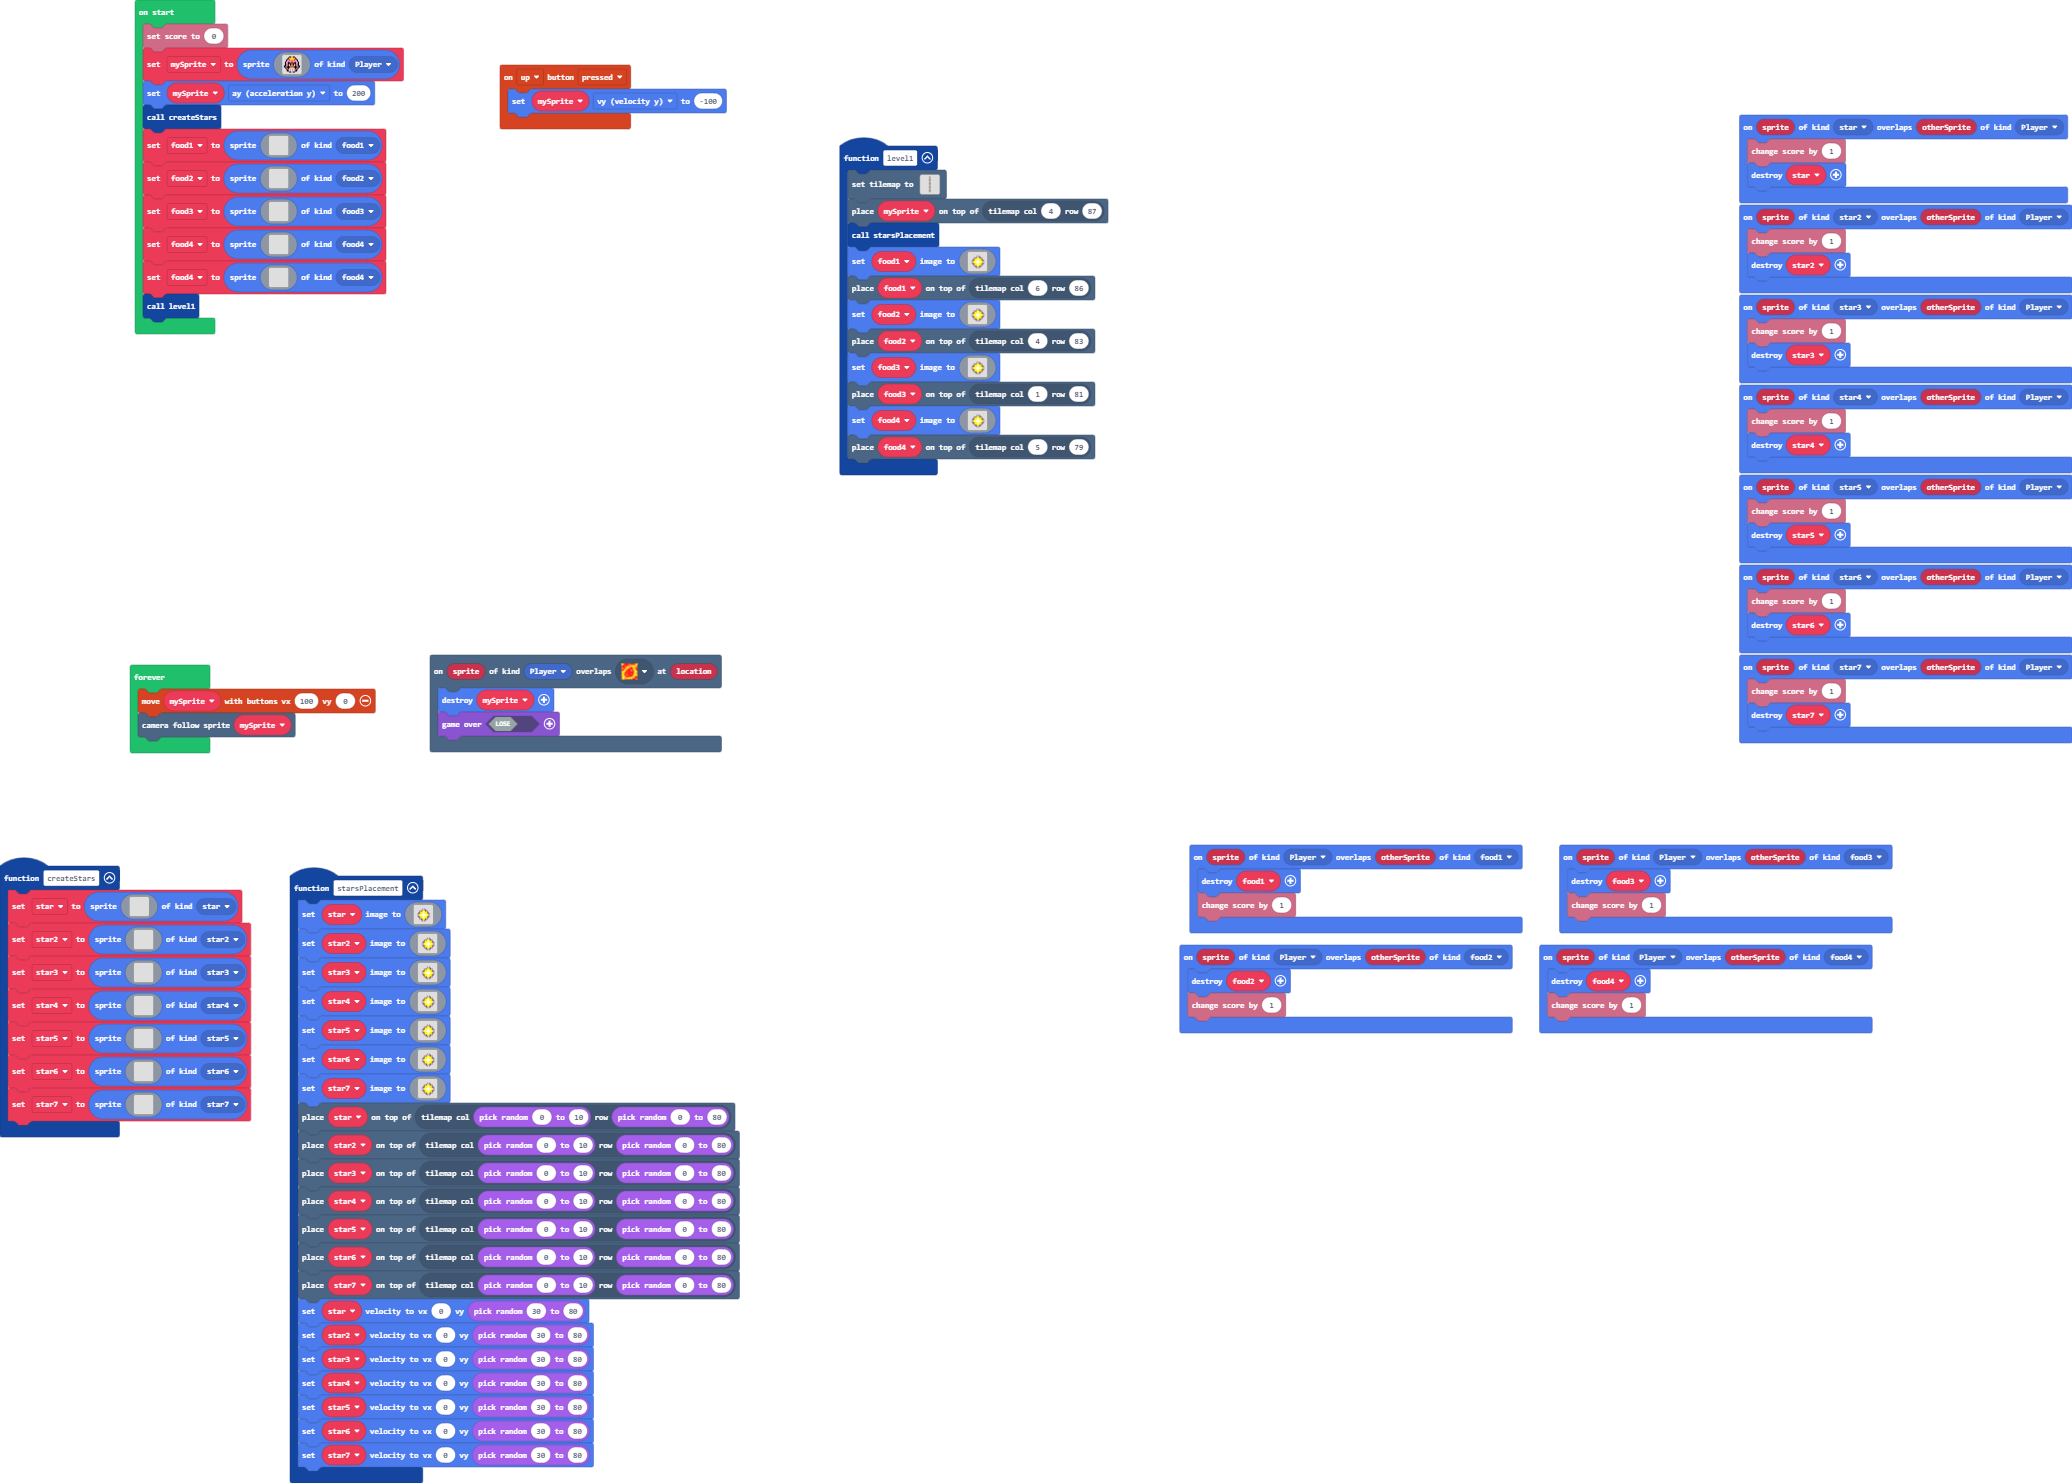
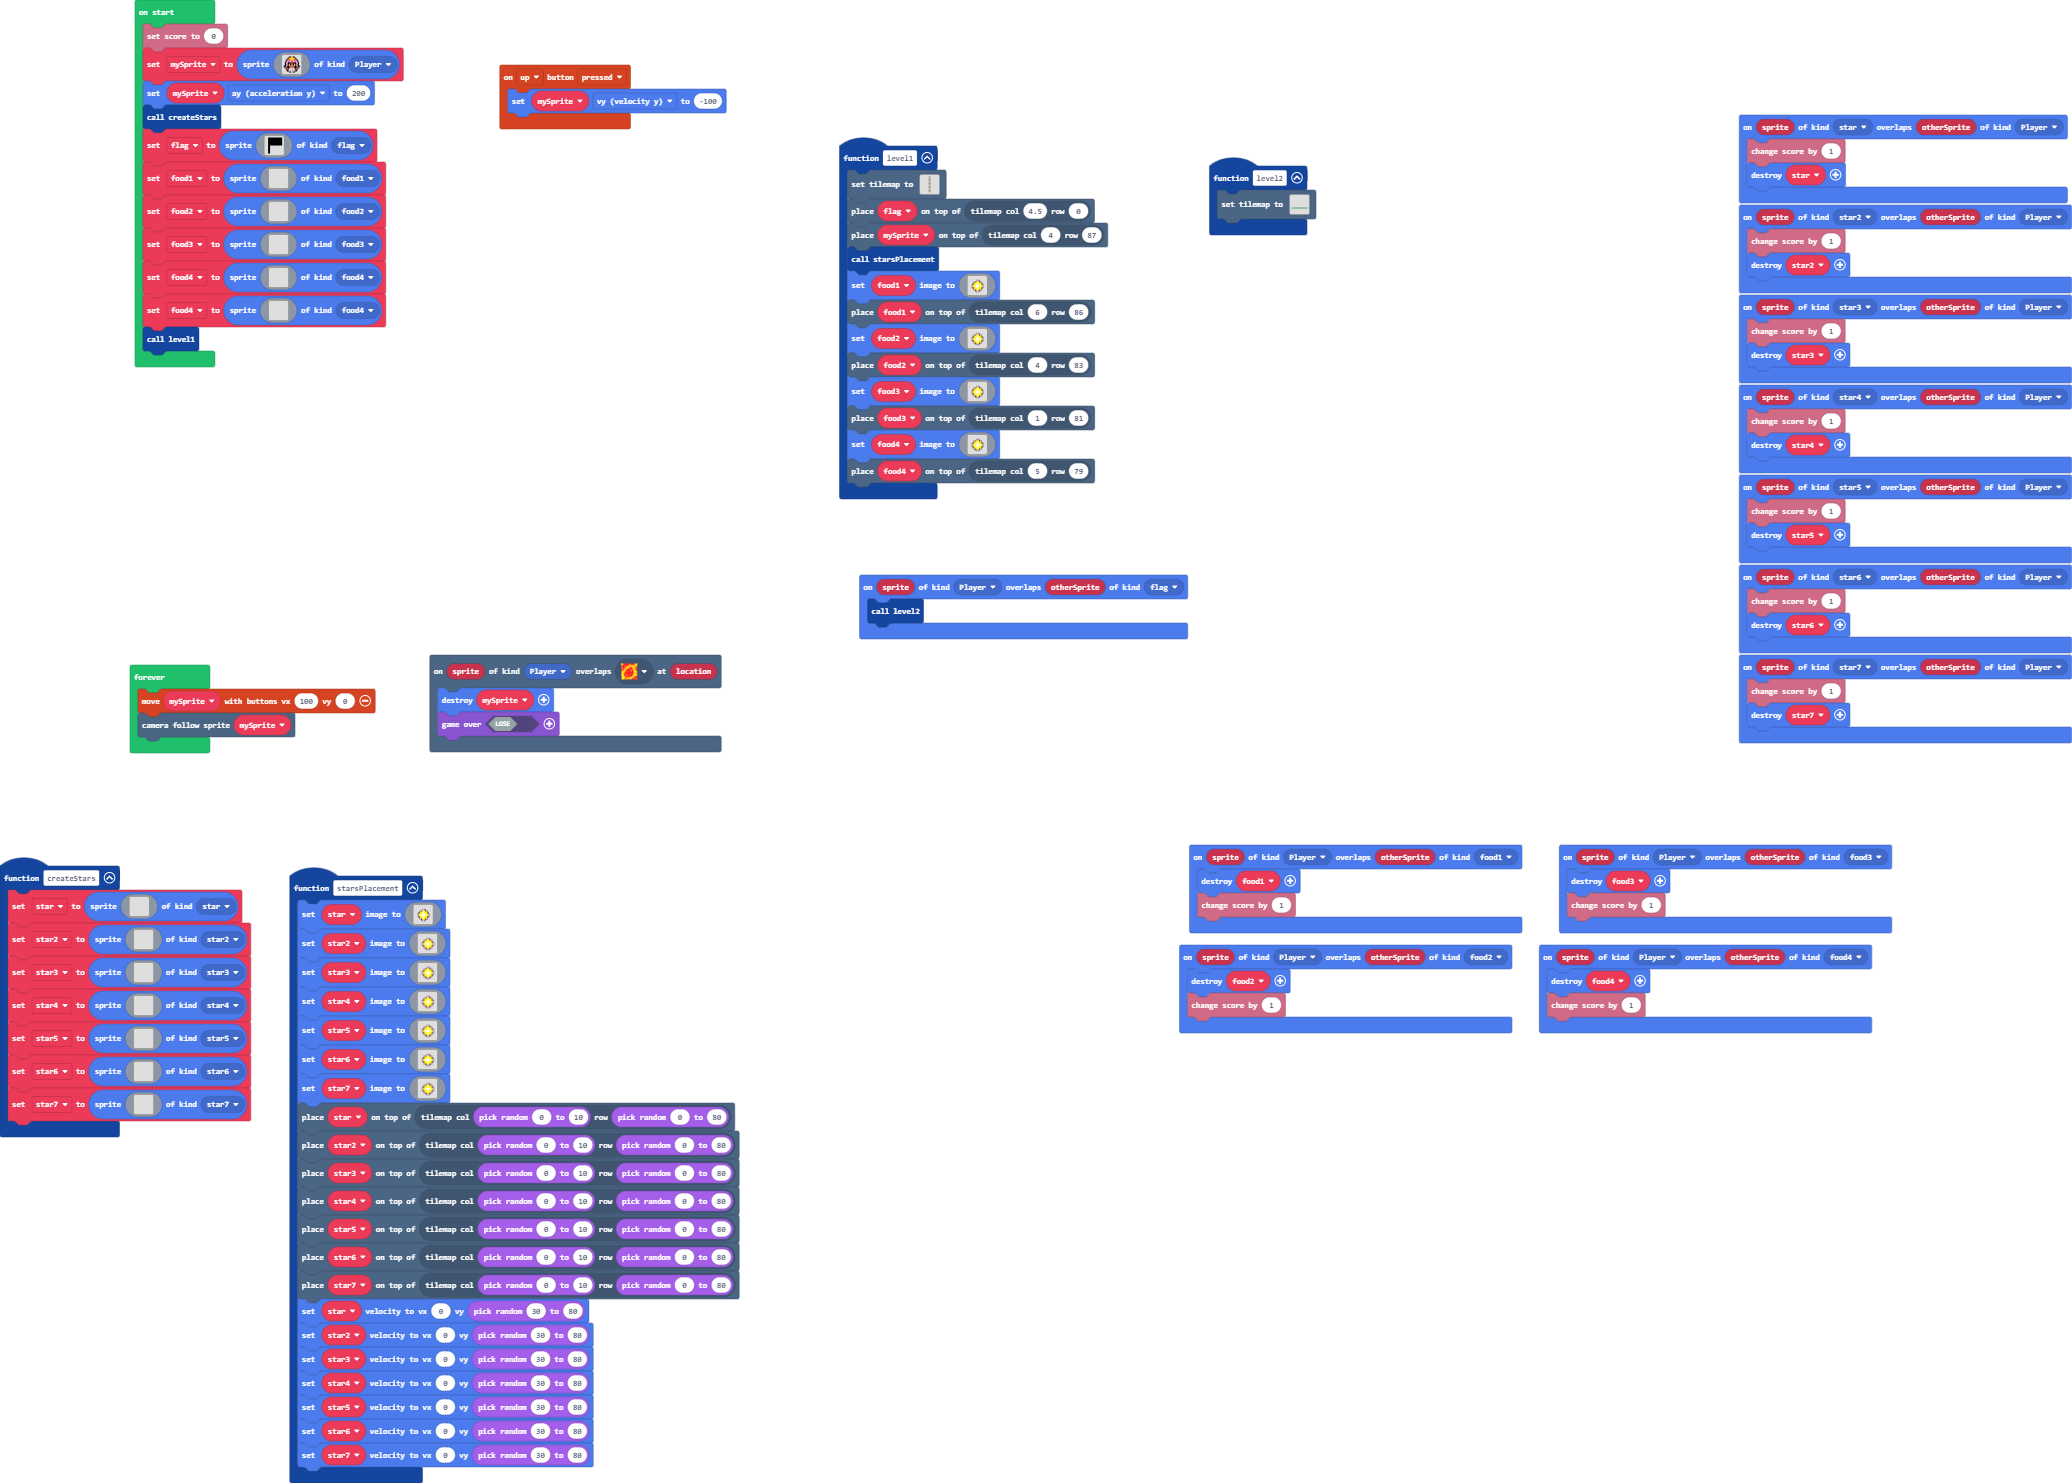
Update main.blocks, main.ts, tilemap.g.jres, tilemap.g.ts

diff --git a/tilemap.g.ts b/tilemap.g.ts
@@ -33,10 +33,29 @@ namespace myTiles {
 
     helpers._registerFactory("tilemap", function(name: string) {
         switch(helpers.stringTrim(name)) {
+            case "level2":
+            case "level2":return tiles.createTilemap(hex`1000100000000000000000000000000000000000000000000000000000000000000000000000000000000000000000000000000000000000000000000000000000000000000000000000000000000000000000000000000000000000000000000000000000000000000000000000000000000000000000000000000000000000000000000000000000000000000000000000000000000000000000000000000000000000000000000000000000000000000000000000000000000000000000000000000000000000000000000000000000000000000000000000000000000000000000000000000000000000000000000000000000000000000000000000000000000000`, img`
+. . . . . . . . . . . . . . . . 
+. . . . . . . . . . . . . . . . 
+. . . . . . . . . . . . . . . . 
+. . . . . . . . . . . . . . . . 
+. . . . . . . . . . . . . . . . 
+. . . . . . . . . . . . . . . . 
+. . . . . . . . . . . . . . . . 
+. . . . . . . . . . . . . . . . 
+. . . . . . . . . . . . . . . . 
+. . . . . . . . . . . . . . . . 
+. . . . . . . . . . . . . . . . 
+. . . . . . . . . . . . . . . . 
+. . . . . . . . . . . . . . . . 
+. . . . . . . . . . . . . . . . 
+. . . . . . . . . . . . . . . . 
+. . . . . . . . . . . . . . . . 
+`, [myTiles.transparency16], TileScale.Sixteen);
             case "level1":
[2 lines of base64/hex data omitted]
 ..........
-..........
+...2222...
 ..........
 ..........
 ..........
@@ -125,7 +144,26 @@ namespace myTiles {
 ..........
 ....22....
 ..........
-`, [myTiles.transparency16,myTiles.tile1,myTiles.tile4,myTiles.tile5,myTiles.tile6,myTiles.tile8,myTiles.tile9,myTiles.tile10,myTiles.tile11,myTiles.tile12,myTiles.tile13,myTiles.tile14,sprites.dungeon.hazardLava0,sprites.builtin.forestTiles10], TileScale.Sixteen);
+`, [myTiles.transparency16,myTiles.tile1,myTiles.tile4,myTiles.tile5,myTiles.tile6,myTiles.tile8,myTiles.tile9,myTiles.tile10,myTiles.tile11,myTiles.tile12,myTiles.tile13,myTiles.tile14,sprites.dungeon.hazardLava0,sprites.builtin.forestTiles10,myTiles.tile2], TileScale.Sixteen);
+            case "level3":
+            case "level3":return tiles.createTilemap(hex`1000100000000000000000000000000000000000000000000000000000000000000000000000000000000000000000000000000000000000000000000000000000000000000000000000000000000000000000000000000000000000000000000000000000000000000000000000000000000000000000000000000000000000000000000000000000000000000000000000000000000000000000000000000000000000000000000000000000000000000000000101010101010101010101010101010100000000000000000000000000000000000000000000000000000000000000000000000000000000000000000000000000000000000000000000000000000000`, img`
+. . . . . . . . . . . . . . . . 
+. . . . . . . . . . . . . . . . 
+. . . . . . . . . . . . . . . . 
+. . . . . . . . . . . . . . . . 
+. . . . . . . . . . . . . . . . 
+. . . . . . . . . . . . . . . . 
+. . . . . . . . . . . . . . . . 
+. . . . . . . . . . . . . . . . 
+. . . . . . . . . . . . . . . . 
+. . . . . . . . . . . . . . . . 
+. . . . . 2 2 . . . . . . . . . 
+2 2 2 2 2 2 2 2 2 2 2 2 2 2 2 2 
+. . . . . 2 2 2 2 2 2 . . . . . 
+. . . . . . . . . . . . . . . . 
+. . . . . . . . . . . . . . . . 
+. . . . . . . . . . . . . . . . 
+`, [myTiles.transparency16,sprites.builtin.forestTiles0], TileScale.Sixteen);
         }
         return null;
     })

diff --git a/main.ts b/main.ts
@@ -12,6 +12,7 @@ namespace SpriteKind {
     export const food2 = SpriteKind.create()
     export const food3 = SpriteKind.create()
     export const food4 = SpriteKind.create()
+    export const flag = SpriteKind.create()
 }
 function createStars () {
     star = sprites.create(img`
@@ -154,6 +155,7 @@ sprites.onOverlap(SpriteKind.Player, SpriteKind.food3, function (sprite, otherSp
 })
 function level1 () {
     tiles.setTilemap(tilemap`level1`)
+    tiles.placeOnTile(flag, tiles.getTileLocation(4.5, 0))
     tiles.placeOnTile(mySprite, tiles.getTileLocation(4, 87))
     starsPlacement()
     food1.setImage(img`
@@ -237,6 +239,9 @@ scene.onOverlapTile(SpriteKind.Player, sprites.dungeon.hazardLava0, function (sp
     mySprite.destroy()
     game.over(false)
 })
+function level2 () {
+    tiles.setTilemap(tilemap`level3`)
+}
 sprites.onOverlap(SpriteKind.star2, SpriteKind.Player, function (sprite, otherSprite) {
     info.changeScoreBy(1)
     star2.destroy()
@@ -415,6 +420,9 @@ sprites.onOverlap(SpriteKind.star4, SpriteKind.Player, function (sprite, otherSp
     info.changeScoreBy(1)
     star4.destroy()
 })
+sprites.onOverlap(SpriteKind.Player, SpriteKind.flag, function (sprite, otherSprite) {
+    level2()
+})
 let star7: Sprite = null
 let star6: Sprite = null
 let star5: Sprite = null
@@ -426,6 +434,7 @@ let food4: Sprite = null
 let food3: Sprite = null
 let food2: Sprite = null
 let food1: Sprite = null
+let flag: Sprite = null
 let mySprite: Sprite = null
 info.setScore(0)
 mySprite = sprites.create(img`
@@ -448,6 +457,24 @@ mySprite = sprites.create(img`
     `, SpriteKind.Player)
 mySprite.ay = 200
 createStars()
+flag = sprites.create(img`
+    . . f f f f f f f f f f f f f f 
+    . . f f f f f f f f f f f f f f 
+    . . f f f f f f f f f f f f f f 
+    . . f f f f f f f f f f f f f f 
+    . . f f f f f f f f f f f f f f 
+    . . f f f f f f f f f f f f f f 
+    . . f f f f f f f f f f f f f f 
+    . . f f f f f f f f f f f f f f 
+    . . f f . . . . . . . . . . . . 
+    . . f f . . . . . . . . . . . . 
+    . . f f . . . . . . . . . . . . 
+    . . f f . . . . . . . . . . . . 
+    . . f f . . . . . . . . . . . . 
+    . . f f . . . . . . . . . . . . 
+    . . f f . . . . . . . . . . . . 
+    . . f f . . . . . . . . . . . . 
+    `, SpriteKind.flag)
 food1 = sprites.create(img`
     . . . . . . . . . . . . . . . . 
     . . . . . . . . . . . . . . . . 
